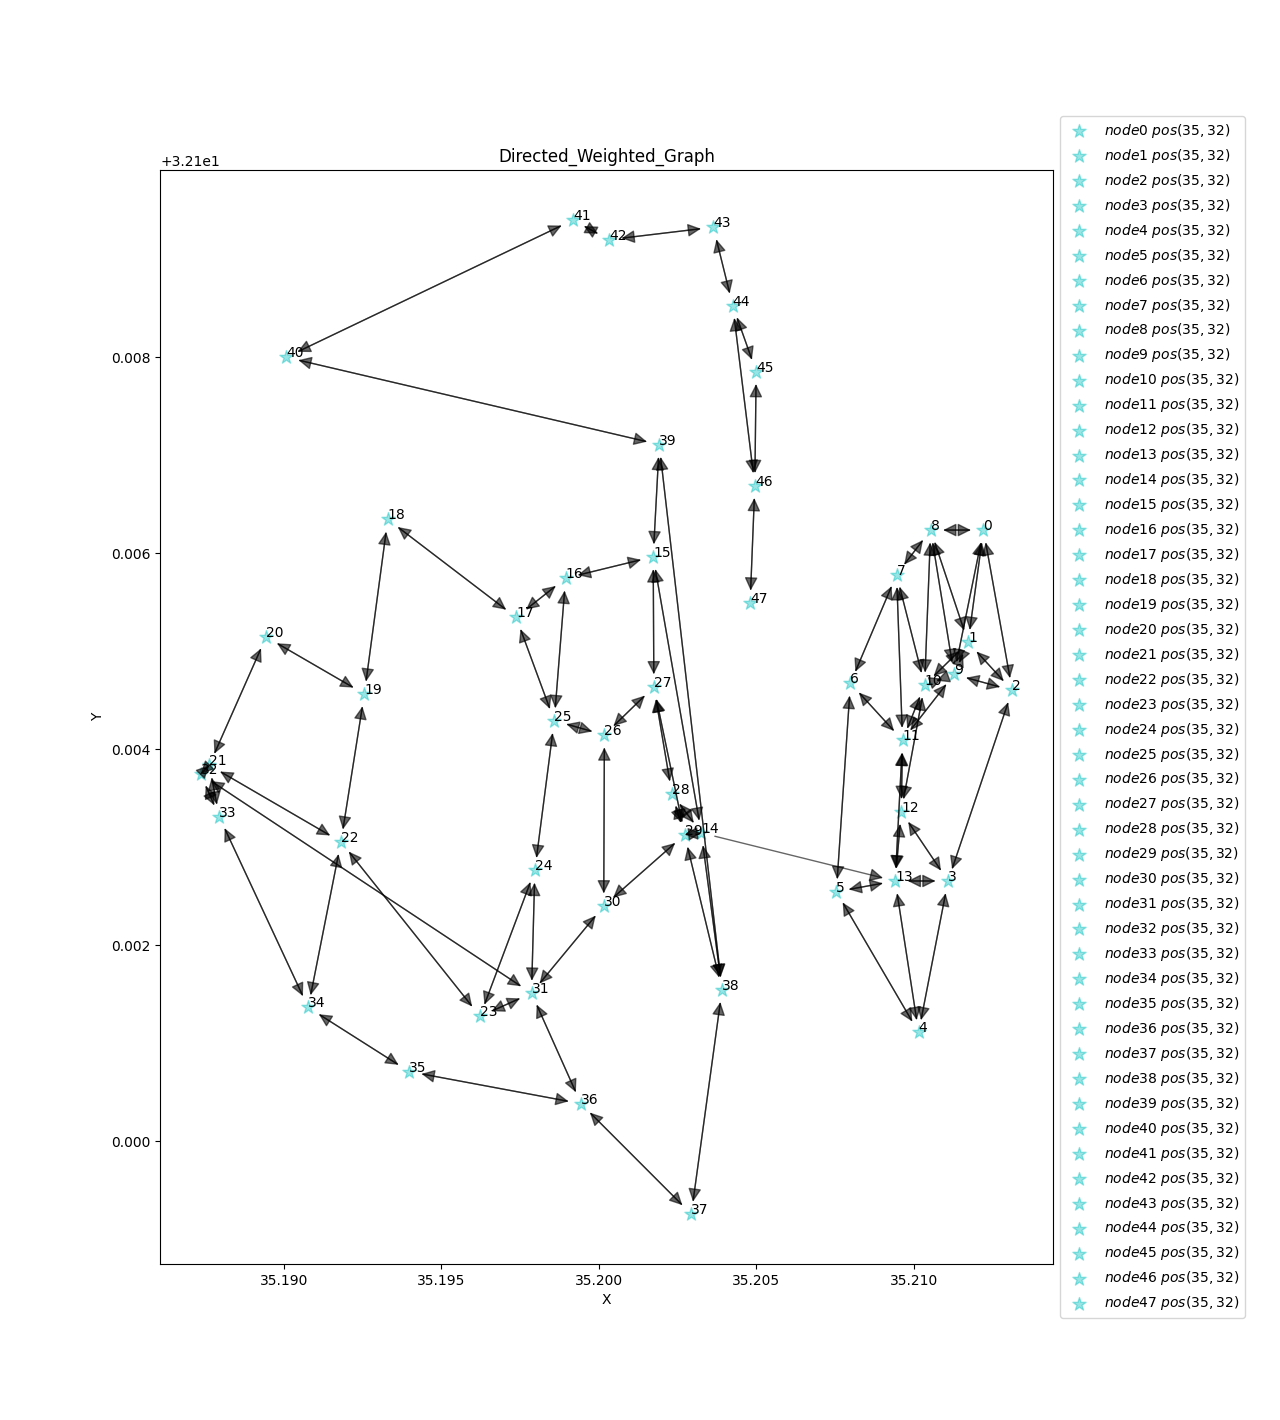
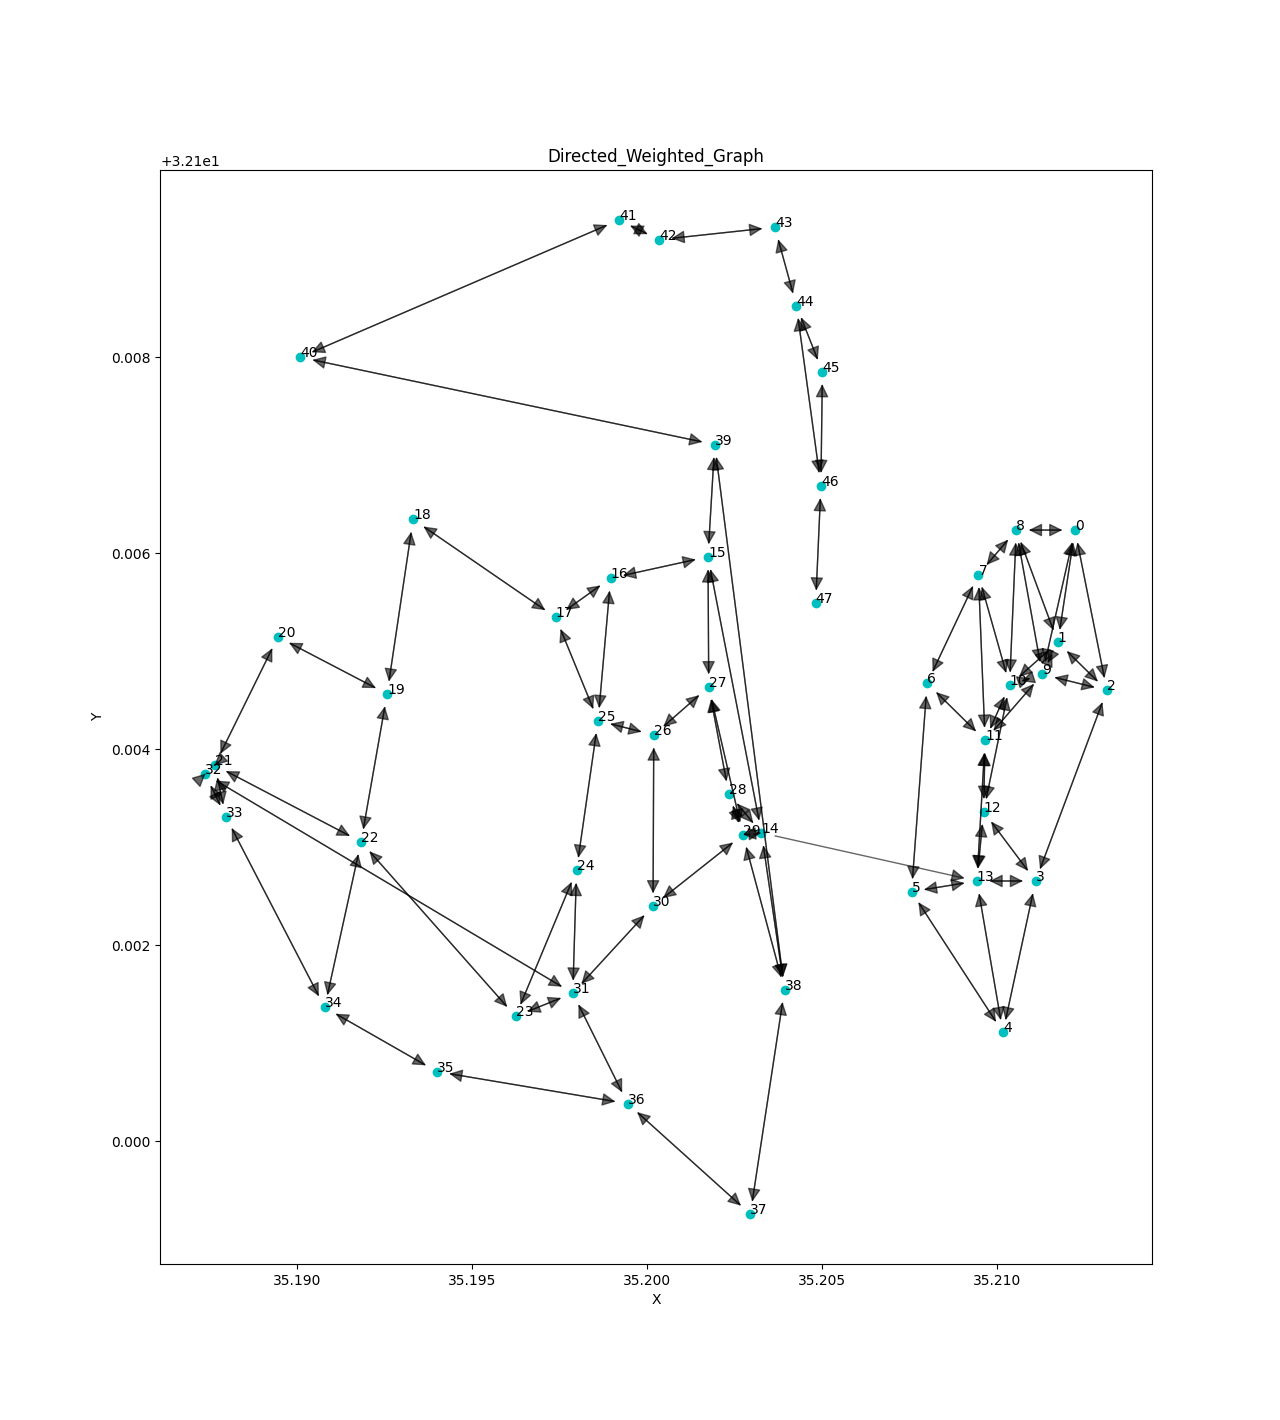
plot loop fixed

diff --git a/src/GraphAlgo.py b/src/GraphAlgo.py
@@ -234,13 +234,23 @@ class GraphAlgo(GraphAlgoInterface):
         for node in nodes_list:
             if node.pos is None:  # take care of a case where node dont have position
                 if x_max == 0 and y_max == 0:  # in case all nodes without position we pick a arena in size of nodes*7
-                    x_max = randint(0, len(nodes_list)*10)
-                    y_max = randint(0, len(nodes_list)*10)
+                    x_max = randint(len(nodes_list), len(nodes_list)*10)
+                    y_max = randint(len(nodes_list), len(nodes_list)*10)
                 x_final = x_max
                 y_final = y_max
-                while x_final in history.keys():  # in case of duplicate generated pos,
+                # while x_final in history.keys():  # in case of duplicate generated pos,
+                #     x_final = randint(0, x_max)   # we randomize until we get a new one,
+                #     y_final = randint(0, y_max)   # therefore time complexity increases but
+                # node.pos = (x_final, y_final, 0)  # graph will look more elegant
+                if x_final in history.keys():  # in case of duplicate generated pos,
+                    temp=x_final
                     x_final = randint(0, x_max)   # we randomize until we get a new one,
                     y_final = randint(0, y_max)   # therefore time complexity increases but
+                    if x_final==temp and hash(temp) in history.keys():
+                        x_final=hash(temp)
+                    else:
+                        x_final+=hash(hash(temp))
+
                 node.pos = (x_final, y_final, 0)  # graph will look more elegant
 
             #  add node position x,y values in two lists
@@ -256,8 +266,8 @@ class GraphAlgo(GraphAlgoInterface):
         # plot for the nodes and their annotation
         fig, ax1 = plt.subplots(figsize=(12.8, 14.2))
         for node, value in positionOfNodes.items():
-            ax1.scatter(value[0], value[1], facecolor='c', s=100, c="c", alpha=0.4, marker='*',
-                        label='$node%i$' % node + ' $pos(%i$' % value[0] + '$,%i$' % value[1] + ')')
+            ax1.scatter(value[0],value[1],c='c')
+
             ax1.annotate(node, (value[0], value[1]), alpha=1)
 
         # creating arrows for each edge by iterating the edges_list
@@ -273,11 +283,11 @@ class GraphAlgo(GraphAlgoInterface):
                                   mutation_scale=20, alpha=0.6, fc="k")
             ax1.add_artist(con)
 
-        box = ax1.get_position()
-        ax1.set_position([box.x0, box.y0, box.width * 0.90, box.height])
+        # box = ax1.get_position()
+        # ax1.set_position([box.x0, box.y0, box.width * 0.90, box.height])
 
         # Put a legend to the right of the current axis
-        ax1.legend(loc='center left', bbox_to_anchor=(1, 0.5))
+        # ax1.legend(loc='center left', bbox_to_anchor=(1, 0.5))
         plt.title('Directed_Weighted_Graph')
         plt.xlabel('X')
         plt.ylabel('Y')

diff --git a/Tests/TestGraphAlgo.py b/Tests/TestGraphAlgo.py
@@ -29,6 +29,7 @@ def graph_creator_with_edges(v_size: int, e_size: int) -> GraphAlgo:
         x = random.uniform(0.1, 35)
         y = random.uniform(0.1, 35)
         position = (x, y, 0)
+        #t.add_node(v, pos=position)
         t.add_node(v, pos=position)
         v += 1
     while e <= e_size:
@@ -161,6 +162,8 @@ class MyTestCase(unittest.TestCase):
         g.add_edge(6, 7, 1)
         g.add_edge(7, 5, 1)
         ga.plot_graph()  # plot in case of nodes without position
+
+
 
 
 if __name__ == '__main__':
